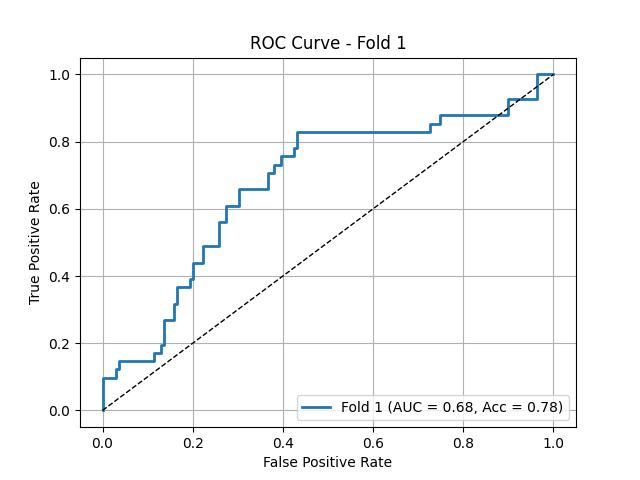
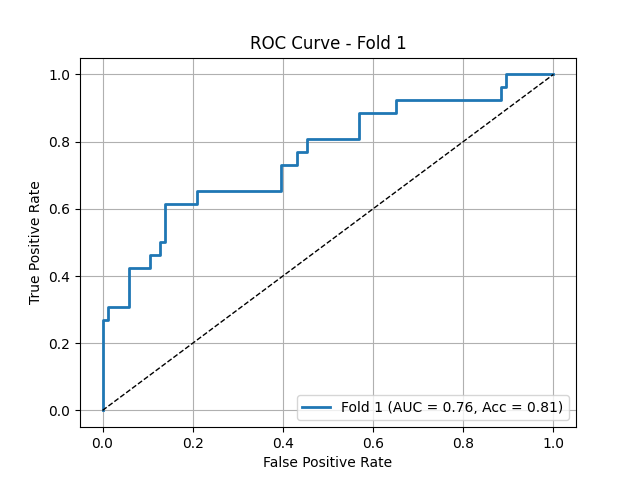
lr to 4 decimal point

diff --git a/train_onlytorch.py b/train_onlytorch.py
@@ -70,7 +70,7 @@ for fold in range(k_fold):
                                  sdf_model_path= r"checkpoints\deeplabv3_sdf_randomcrop\model_20250711_201243\epoch_84",
                                  radiomics= False).to(device)
 
-    optimizer = torch.optim.Adam(model.parameters(), lr=5e-5, weight_decay=1e-5)
+    optimizer = torch.optim.Adam(model.parameters(), lr=1e-4, weight_decay=1e-5)
     best_val_auc = -1
     best_combined_score = -1 
     best_model_state = None 
